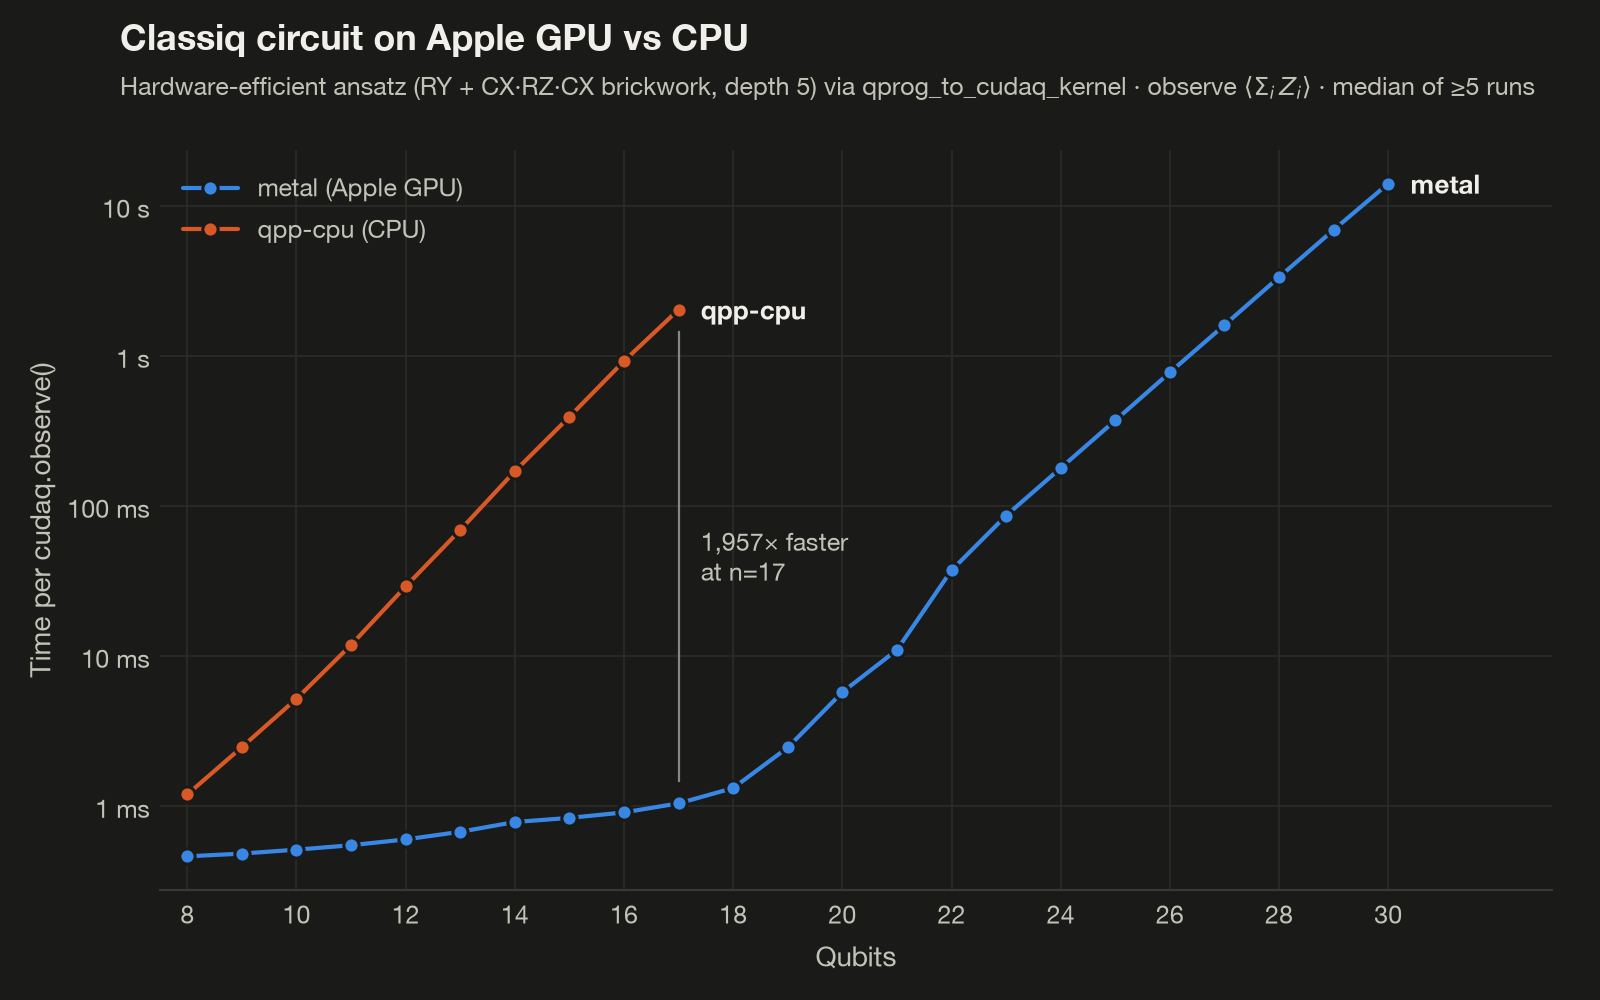
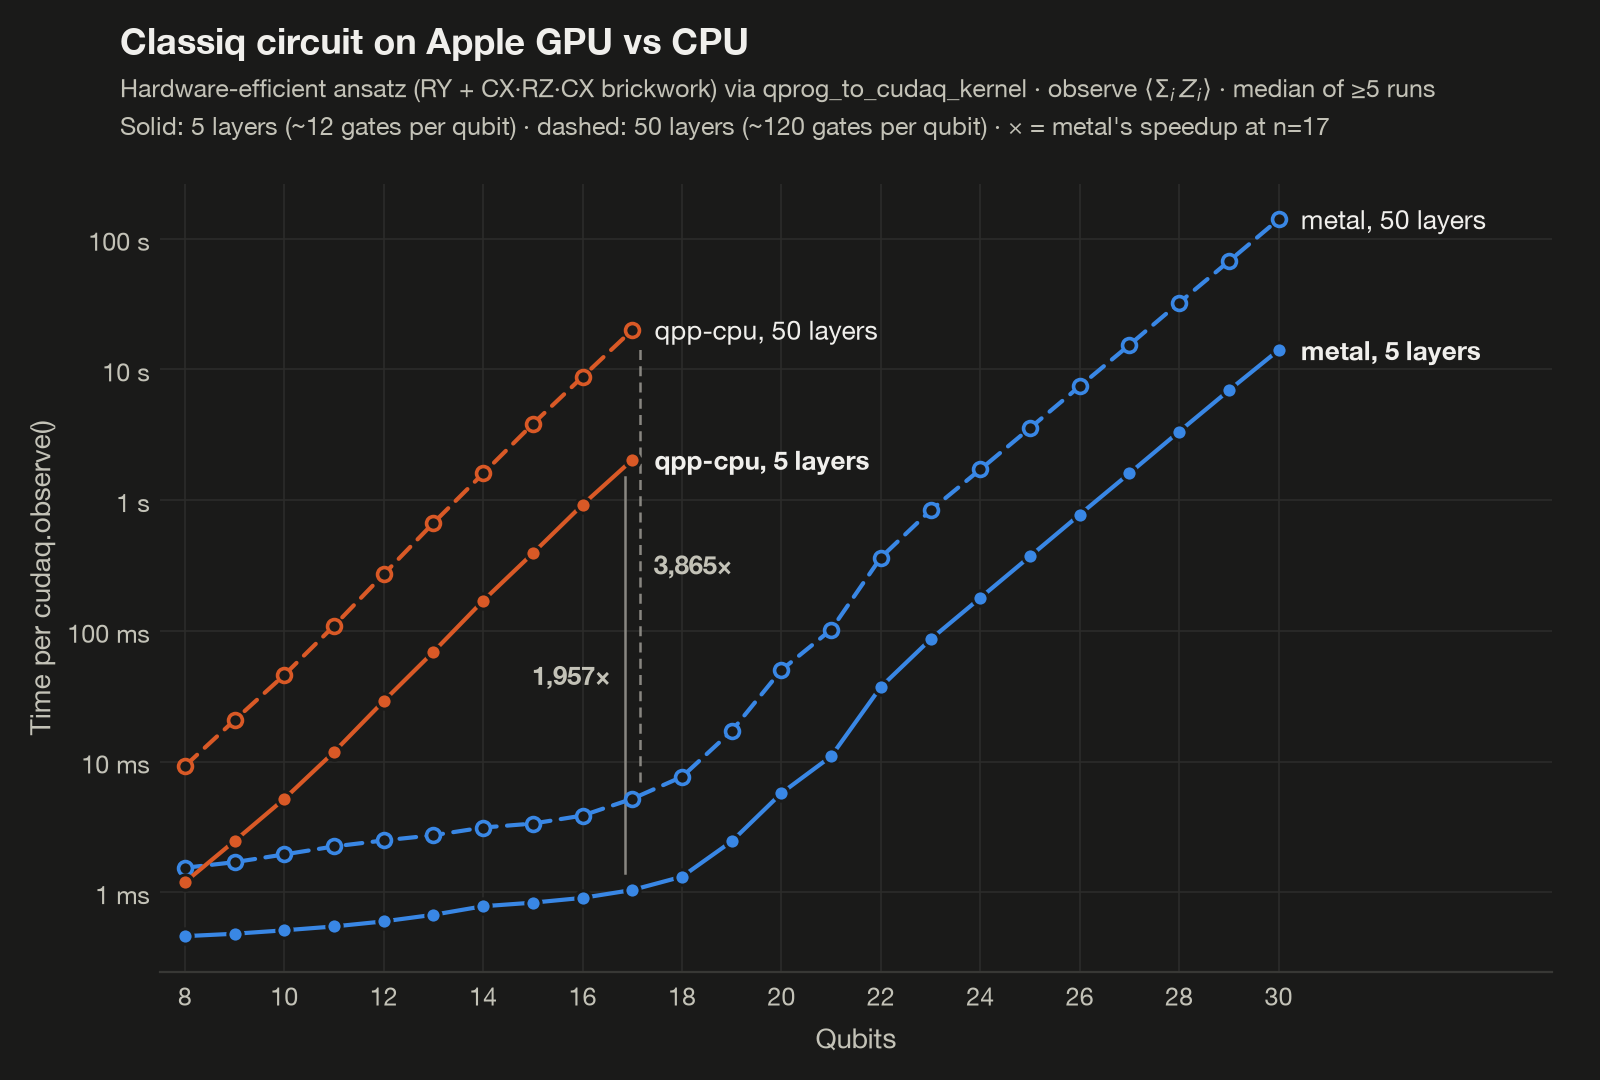
Benchmark the Classiq circuit at 5 and 50 layers
The README benchmark only ran the example's 5-layer brickwork (~12 gates
per qubit), which is small. The scaling bench now also runs it at 50
layers (~120 gates per qubit):

- examples_scaling_bench.py: depth is a CSV column, and target names and
  --depth re-measure only those runs and keep the other rows. Classiq
  synthesis now retries cloud timeouts, and a failure prints its
  exception type.
- plot_examples.py: 5 layers solid, 50 layers dashed, with labels at the
  line ends instead of a legend, and a speedup bracket per depth at n=17.
- README: new graph and numbers. At n=17 metal is ~1,960x faster at 5
  layers and ~3,870x at 50. At 20+ qubits, 50 layers take ~10x as long on
  both engines. Adds a note on Hamiltonian size and a 50-layer column in
  the qubit-ceiling table.

diff --git a/benchmarks/plot_examples.py b/benchmarks/plot_examples.py
@@ -1,4 +1,8 @@
-"""Plot results/examples.csv -> results/examples.png and examples-dark.png."""
+"""Plot results/examples.csv -> results/examples.png and examples-dark.png.
+
+One colour per target; the shallowest depth is drawn solid with filled
+markers, deeper circuits dashed with hollow markers.
+"""
 import csv
 import os
 
@@ -17,46 +21,67 @@ THEMES = {
     "examples-dark.png": dict(surface="#1a1a19", ink="#f0efec", ink2="#c3c2b7", muted="#898781",
                               grid="#2c2c2a", axis="#383835", metal="#3987e5", qpp="#d95926"),
 }
-# target -> (legend label, color key)
+# target -> (label, color key)
 SERIES = {"metal": ("metal (Apple GPU)", "metal"), "qpp-cpu": ("qpp-cpu (CPU)", "qpp")}
-TICKS = [1e-3, 1e-2, 1e-1, 1, 10]
-TICK_LABELS = ["1 ms", "10 ms", "100 ms", "1 s", "10 s"]
+DASHED = (0, (4, 2.5))
+TICKS = [1e-3, 1e-2, 1e-1, 1, 10, 100]
+TICK_LABELS = ["1 ms", "10 ms", "100 ms", "1 s", "10 s", "100 s"]
 
 
 def load():
-    data, depths = {k: {} for k in SERIES}, set()
+    """(target, depth) -> {n: median seconds}."""
+    data = {}
     with open(CSV) as f:
         for row in csv.DictReader(f):
-            data[row["target"]][int(row["n"])] = float(row["median"])
-            depths.add(row["depth"])
-    return data, "/".join(sorted(depths))
+            key = (row["target"], int(row["depth"]))
+            data.setdefault(key, {})[int(row["n"])] = float(row["median"])
+    return data
 
 
-def plot(data, depth, out, t):
+def plot(data, out, t):
     # Per-glyph fallback: DejaVu Sans supplies glyphs Helvetica lacks.
     plt.rcParams["font.family"] = ["Helvetica Neue", "DejaVu Sans"]
-    fig, ax = plt.subplots(figsize=(8, 5), dpi=200)
+    fig, ax = plt.subplots(figsize=(8, 5.4), dpi=200)
     fig.patch.set_facecolor(t["surface"])
     ax.set_facecolor(t["surface"])
 
+    depths = sorted({d for _, d in data})
     for target, (label, color) in SERIES.items():
-        pts = sorted(data[target].items())
-        ax.plot([n for n, _ in pts], [s for _, s in pts], label=label, color=t[color],
-                linewidth=1.5, solid_capstyle="round", marker="o", markersize=5.5,
-                markeredgewidth=1.1, markeredgecolor=t["surface"], zorder=3)
-        n, s = pts[-1]  # direct label at the line's end
-        ax.annotate(label.split(" (")[0], (n, s), xytext=(8, 0), textcoords="offset points",
-                    va="center", fontsize=9.5, color=t["ink"], fontweight="bold")
+        for depth in depths:
+            pts = sorted(data.get((target, depth), {}).items())
+            if not pts:
+                continue
+            solid = depth == depths[0]
+            ax.plot([n for n, _ in pts], [s for _, s in pts], color=t[color],
+                    linewidth=1.5, linestyle="-" if solid else DASHED,
+                    solid_capstyle="round", dash_capstyle="round",
+                    marker="o", markersize=5.5 if solid else 5,
+                    markerfacecolor=t[color] if solid else t["surface"],
+                    markeredgewidth=1.1 if solid else 1.3,
+                    markeredgecolor=t["surface"] if solid else t[color], zorder=3)
+            n, s = pts[-1]  # direct label at the line's end
+            ax.annotate(f"{label.split(' (')[0]}, {depth} layers", (n, s), xytext=(8, 0),
+                        textcoords="offset points", va="center", fontsize=9.5,
+                        color=t["ink"], fontweight="bold" if solid else "normal")
 
-    # The headline: metal's speedup at the largest size both engines ran.
-    common = set(data["metal"]) & set(data["qpp-cpu"])
-    if common:
+    # The headline: metal's speedup at the largest size both engines ran, one
+    # bracket per depth in that depth's line style. The shallow bracket sits
+    # just left of n with its label on the left, the deep one just right.
+    speedup_ns = set()
+    for i, depth in enumerate(depths[:2]):
+        gpu_pts, cpu_pts = data.get(("metal", depth), {}), data.get(("qpp-cpu", depth), {})
+        common = set(gpu_pts) & set(cpu_pts)
+        if not common:
+            continue
         n = max(common)
-        cpu, gpu = data["qpp-cpu"][n], data["metal"][n]
-        ax.plot([n, n], [gpu * 1.4, cpu / 1.4], color=t["muted"], linewidth=0.8, zorder=2)
-        ax.annotate(f"{cpu / gpu:,.0f}× faster\nat n={n}", (n, (cpu * gpu) ** 0.5),
-                    xytext=(8, 0), textcoords="offset points", ha="left", va="center",
-                    fontsize=9, color=t["ink2"])
+        speedup_ns.add(n)
+        cpu, gpu = cpu_pts[n], gpu_pts[n]
+        x, side = (n - 0.15, -1) if i == 0 else (n + 0.15, 1)
+        ax.plot([x, x], [gpu * 1.35, cpu / 1.35], color=t["muted"], linewidth=0.9,
+                linestyle="-" if i == 0 else DASHED, zorder=2)
+        ax.annotate(f"{cpu / gpu:,.0f}×", (x, (cpu * gpu) ** 0.5), xytext=(5 * side, 0),
+                    textcoords="offset points", ha="left" if side > 0 else "right",
+                    va="center", fontsize=9.5, color=t["ink2"], fontweight="bold")
 
     ax.set_yscale("log")
     ax.yaxis.set_major_locator(FixedLocator(TICKS))
@@ -64,7 +89,7 @@ def plot(data, depth, out, t):
     ax.yaxis.set_minor_locator(NullLocator())
     ns = sorted({n for d in data.values() for n in d})
     ax.set_xticks(range(min(ns), max(ns) + 1, 2))
-    ax.set_xlim(min(ns) - 0.5, max(ns) + 3)
+    ax.set_xlim(min(ns) - 0.5, max(ns) + 5.5)
     ax.set_xlabel("Qubits", color=t["ink2"], fontsize=10)
     ax.set_ylabel("Time per cudaq.observe()", color=t["ink2"], fontsize=10)
     ax.tick_params(colors=t["muted"], labelcolor=t["ink2"], labelsize=9, length=0)
@@ -74,22 +99,29 @@ def plot(data, depth, out, t):
         ax.spines[side].set_visible(False)
     ax.spines["bottom"].set_color(t["axis"])
 
+    # Each layer is one RY per qubit plus ~1.5 brickwork gates per qubit.
+    def layers(d):
+        return f"{d} layers (~{2.4 * d:.0f} gates per qubit)"
+
+    key = f"Solid: {layers(depths[0])}"
+    if len(depths) > 1:
+        key += " · dashed: " + ", ".join(layers(d) for d in depths[1:])
+    if len(speedup_ns) == 1:
+        key += f" · × = metal's speedup at n={speedup_ns.pop()}"
     fig.text(0.075, 0.95, "Classiq circuit on Apple GPU vs CPU",
              fontsize=13, fontweight="bold", color=t["ink"])
-    fig.text(0.075, 0.905, f"Hardware-efficient ansatz (RY + CX·RZ·CX brickwork, depth {depth}) "
-             r"via qprog_to_cudaq_kernel · observe $\langle \Sigma_i\, Z_i \rangle$ · median of ≥5 runs",
+    fig.text(0.075, 0.91, "Hardware-efficient ansatz (RY + CX·RZ·CX brickwork) via "
+             r"qprog_to_cudaq_kernel · observe $\langle \Sigma_i\, Z_i \rangle$ · median of ≥5 runs",
              fontsize=9, color=t["ink2"])
-    leg = ax.legend(loc="upper left", frameon=False, fontsize=9, handlelength=2.2)
-    for txt in leg.get_texts():
-        txt.set_color(t["ink2"])
+    fig.text(0.075, 0.875, key, fontsize=9, color=t["ink2"])
 
-    fig.subplots_adjust(left=0.1, right=0.97, top=0.85, bottom=0.11)
+    fig.subplots_adjust(left=0.1, right=0.97, top=0.83, bottom=0.1)
     fig.savefig(os.path.join(HERE, "results", out), facecolor=t["surface"])
     plt.close(fig)
     print(f"wrote results/{out}")
 
 
 if __name__ == "__main__":
-    data, depth = load()
+    data = load()
     for out, theme in THEMES.items():
-        plot(data, depth, out, theme)
+        plot(data, out, theme)

diff --git a/benchmarks/examples_scaling_bench.py b/benchmarks/examples_scaling_bench.py
@@ -2,18 +2,21 @@
 qpp-cpu (CPU), via qprog_to_cudaq_kernel.
 
 The circuit is examples/brickwork_classiq.py's hardware-efficient ansatz (RY
-layer + CX-RZ-CX brickwork), observed against Σ Z_i. Only `cudaq.observe(...)`
-is timed; synthesis, kernel construction and a warmup run happen first.
-qpp-cpu stops at n=17 (~2 s per observe and doubling); metal runs up to n=30
-to show the curve up to the statevector ceiling (sizes that don't fit are
-reported and skipped). Results go to results/examples.csv, replaced only once
-the whole sweep has finished; pass target names (e.g. ``metal``) to re-measure
-only those and keep the other rows. Requires ``classiq.authenticate()`` once.
+layer + CX-RZ-CX brickwork), observed against Σ Z_i, at 5 layers (~12 gates
+per qubit) and 50 layers (~120 gates per qubit). Only `cudaq.observe(...)` is
+timed; synthesis, kernel construction and a warmup run happen first.
+qpp-cpu stops at n=17 (~2 s per observe at 5 layers, ~20 s at 50, doubling
+per qubit); metal runs up to n=30 to show the curve up to the statevector
+ceiling (sizes that don't fit are reported and skipped; 50 layers at n=30 take
+~2.5 minutes per observe). Results go to results/examples.csv, replaced only
+once the whole sweep has finished. Pass target names (e.g. ``metal``) and/or
+``--depth D`` to re-measure only those and keep the other rows. Requires
+``classiq.authenticate()`` once.
 """
+import argparse
 import functools
 import operator
 import os
-import sys
 import time
 from functools import reduce
 
@@ -25,21 +28,22 @@ from classiq import (qfunc, QArray, QBit, Output, allocate,
                      RY, RZ, CX, synthesize, qprog_to_cudaq_kernel,
                      pauli_operator_to_cudaq_spin_op, Pauli)
 
-DEPTH = 5
+DEPTHS = (5, 50)
 # Report the median of at least MIN_TRIALS observes, repeating fast points
 # until they add up to MIN_SECONDS: a mean of a few millisecond-scale calls is
 # dominated by scheduling noise. MAX_TRIALS only stops sub-0.25 ms points.
 MIN_TRIALS, MIN_SECONDS, MAX_TRIALS = 5, 0.5, 2000
+SYNTH_ATTEMPTS = 3
 THETA, PHI = 0.5, 0.7
 SIZES = {"qpp-cpu": range(8, 18), "metal": range(8, 31)}
 OUT = os.path.join(os.path.dirname(os.path.abspath(__file__)), "results", "examples.csv")
 
 
-@functools.cache  # synthesize once per size, reuse for both targets
-def _kernel_and_hamiltonian(N):
+@functools.cache  # synthesize once per (size, depth), reuse for both targets
+def _kernel_and_hamiltonian(N, depth):
     @qfunc
     def bw(q: QArray[QBit, N]):
-        for layer in range(DEPTH):
+        for layer in range(depth):
             for i in range(N):
                 RY(THETA, q[i])
             for j in range(layer % 2, N - 1, 2):
@@ -52,13 +56,22 @@ def _kernel_and_hamiltonian(N):
         allocate(q)
         bw(q)
 
-    kernel = qprog_to_cudaq_kernel(synthesize(main))
+    for attempt in range(1, SYNTH_ATTEMPTS + 1):
+        try:
+            qprog = synthesize(main)
+            break
+        except Exception as e:  # cloud call: timeouts are transient
+            if attempt == SYNTH_ATTEMPTS:
+                raise
+            print(f"n={N} depth={depth}: synthesis failed ({type(e).__name__}), "
+                  f"retry {attempt}/{SYNTH_ATTEMPTS - 1}", flush=True)
+    kernel = qprog_to_cudaq_kernel(qprog)
     H = pauli_operator_to_cudaq_spin_op(reduce(operator.add, (Pauli.Z(i) for i in range(N))))
     return kernel, H
 
 
-def observe_times(N, target):
-    kernel, H = _kernel_and_hamiltonian(N)
+def observe_times(N, depth, target):
+    kernel, H = _kernel_and_hamiltonian(N, depth)
     cudaq.set_target(target)
     cudaq.observe(kernel, H).expectation()  # warmup
     ts = []
@@ -70,28 +83,38 @@ def observe_times(N, target):
 
 
 def main():
-    # `python examples_scaling_bench.py metal` re-measures only metal and keeps
-    # the other targets' rows from the existing CSV.
-    targets = sys.argv[1:] or list(SIZES)
+    # `python examples_scaling_bench.py metal --depth 50` re-measures only that
+    # (target, depth) pair and keeps every other row from the existing CSV.
+    ap = argparse.ArgumentParser(description=__doc__.split("\n\n")[0])
+    ap.add_argument("targets", nargs="*", help=f"default: all of {list(SIZES)}")
+    ap.add_argument("--depth", type=int, action="append",
+                    help=f"layers to run (repeatable); default: {list(DEPTHS)}")
+    args = ap.parse_args()
+    targets, depths = args.targets or list(SIZES), args.depth or list(DEPTHS)
     unknown = set(targets) - set(SIZES)
     if unknown:
-        sys.exit(f"unknown target(s) {sorted(unknown)}; choose from {list(SIZES)}")
+        ap.error(f"unknown target(s) {sorted(unknown)}; choose from {list(SIZES)}")
+    redo = {(t, str(d)) for t in targets for d in depths}
     rows = ["n,depth,target,median,std"]
     if os.path.exists(OUT):
         with open(OUT) as f:
-            rows += [r for r in f.read().splitlines()[1:]
-                     if r and r.split(",")[2] not in targets]
+            for r in f.read().splitlines()[1:]:
+                if r and (r.split(",")[2], r.split(",")[1]) not in redo:
+                    rows.append(r)
     for target in targets:
-        for n in SIZES[target]:
-            try:
-                ts = observe_times(n, target)
-            except Exception as e:
-                print(f"n={n} {target}: FAILED ({e})", flush=True)
-                continue
-            m, s = float(np.median(ts)), float(np.std(ts))
-            # Microsecond resolution: metal's small sizes take ~0.5-1 ms.
-            rows.append(f"{n},{DEPTH},{target},{m:.6f},{s:.6f}")
-            print(f"n={n:2d} {target:8s}: {m:8.4f}s ± {s:.4f}", flush=True)
+        for depth in depths:
+            for n in SIZES[target]:
+                try:
+                    ts = observe_times(n, depth, target)
+                except Exception as e:
+                    print(f"n={n} depth={depth} {target}: FAILED "
+                          f"({type(e).__name__}: {e})", flush=True)
+                    continue
+                m, s = float(np.median(ts)), float(np.std(ts))
+                # Microsecond resolution: metal's small sizes take ~0.5-1 ms.
+                rows.append(f"{n},{depth},{target},{m:.6f},{s:.6f}")
+                print(f"n={n:2d} depth={depth:2d} {target:8s}: {m:8.4f}s ± {s:.4f}",
+                      flush=True)
     tmp = OUT + ".part"
     with open(tmp, "w") as f:
         f.write("\n".join(rows) + "\n")

diff --git a/README.md b/README.md
@@ -149,31 +149,46 @@ The benchmark runs the `brickwork_classiq.py` circuit — synthesized by
 Classiq and converted with `qprog_to_cudaq_kernel` — on CUDA-Q's CPU
 simulator (`qpp-cpu`) and on `metal`, timing one
 `cudaq.observe(kernel, Σ Zᵢ)` per point; synthesis and kernel construction
-happen before the clock starts. Apple M5 Pro (24 GB), CUDA-Q 0.16.0, median
-of at least 5 runs (fast points repeat until they add up to 0.5 s):
+happen before the clock starts. Five layers (the example's default, ~12 gates
+per qubit) is a small circuit, so the benchmark also runs it at 50 layers
+(~120 gates per qubit). Apple M5 Pro (24 GB), CUDA-Q 0.16.0, median of at
+least 5 runs (fast points repeat until they add up to 0.5 s):
 
 <picture>
   <source media="(prefers-color-scheme: dark)" srcset="benchmarks/results/examples-dark.png">
-  <img alt="Time per cudaq.observe() vs qubit count for a Classiq circuit: qpp-cpu doubles per qubit to about 2 s at 17 qubits; metal stays near 0.5–1.0 ms up to 17 qubits, about 1,960 times faster there, and reaches 30 qubits in about 14 s." src="benchmarks/results/examples.png">
+  <img alt="Time per cudaq.observe() vs qubit count for a Classiq circuit at 5 layers (solid lines) and 50 layers (dashed). qpp-cpu doubles per qubit, reaching about 2 s at 17 qubits with 5 layers and 20 s with 50. metal stays between 0.5 and 5 ms up to 17 qubits, about 1,960 times faster there at 5 layers and 3,870 times at 50, and reaches 30 qubits in about 14 s and 141 s." src="benchmarks/results/examples.png">
 </picture>
 
 - **qpp-cpu** doubles per qubit, as a CPU statevector does: ~2 s per observe
-  at n=17.
-- **metal** stays at ~0.5–1.0 ms up to n=17, where the fixed per-call cost
-  dominates, and ~6 ms at n=20. From there it doubles per qubit as memory
-  bandwidth takes over: ~0.37 s at n=25 (256 MB statevector).
-- **At n=17, metal is ~1,960× faster** (2.03 s → 1.04 ms). Metal's
-  millisecond-scale times are sensitive to run-to-run noise; earlier runs of
-  this benchmark measured 550–1,900×.
-- Metal reaches **n=30** (an 8 GiB statevector) in ~14 s per observe;
-  extrapolating qpp-cpu's doubling puts it at several hours.
-- At 8 qubits there is little to win: ~1.2 ms vs ~0.5 ms.
+  at n=17 with 5 layers, ~20 s with 50. Ten times the gates cost ten times
+  the time.
+- **metal** stays in the milliseconds up to n=17: 0.5–1.0 ms at 5 layers,
+  where the fixed per-call cost dominates, and 1.5–5 ms at 50. From n≈20 it
+  doubles per qubit as memory bandwidth takes over, and 50 layers cost ~10×
+  as much as 5: 0.37 s vs 3.6 s at n=25 (256 MB statevector).
+- **At n=17, metal is ~1,960× faster at 5 layers** (2.03 s → 1.04 ms) **and
+  ~3,870× at 50** (20.0 s → 5.2 ms): a deeper circuit spreads metal's fixed
+  cost over more gates. Metal's millisecond-scale times are sensitive to
+  run-to-run noise; earlier runs of the 5-layer benchmark measured
+  550–1,900×.
+- Metal reaches **n=30** (an 8 GiB statevector) in ~14 s per observe at 5
+  layers and ~141 s at 50; extrapolating qpp-cpu's doubling puts it at ~5
+  hours and ~2 days.
+- At 8 qubits there is little to win at 5 layers (~1.2 ms vs ~0.5 ms); at 50
+  layers it is 9.2 ms vs 1.5 ms.
 
 The frontend doesn't change these numbers: the same gates written as a
 native `@cudaq.kernel` (`brickwork_native.py`) simulate at the same speed.
+A bigger Hamiltonian widens the gap further. With those native gates at 16
+qubits and 5 layers, replacing Σ Zᵢ with 1,000 random Pauli terms of weight
+≤ 4 took qpp-cpu from 0.9 s to 19 s and metal from 0.9 ms to 3.5 ms
+(~5,400×): metal evaluates the terms in batched GPU passes, qpp-cpu one at a
+time.
 
 Reproduce with (needs `classiq.authenticate()` once, plus matplotlib for the
-plot):
+plot). The full sweep takes about an hour, mostly the 50-layer points at
+26–30 qubits; target names and `--depth` limit it to those runs and keep the
+other rows (e.g. `examples_scaling_bench.py metal --depth 5`):
 
 ```bash
 python benchmarks/examples_scaling_bench.py
@@ -241,7 +256,7 @@ Empirically on an **Apple M5 Pro (24 GB unified)**:
 
 - `maxBufferLength` = **14.30 GB** (13.32 GiB)
 - `recommendedMaxWorkingSetSize` = 19.07 GB (advisory)
-- **n=30 → 8.6 GB buffer → OK** (~14 s per observe, verified on-machine)
+- **n=30 → 8.6 GB buffer → OK** (~14 s per observe at 5 layers, verified on-machine)
 - **n=31 → 17.2 GB buffer → fails** with
   `a 31-qubit statevector needs 16.00 GiB, but this GPU's maxBufferLength is 13.32 GiB`
 
@@ -250,15 +265,15 @@ So **n=30 is the ceiling on a 24 GB M5 Pro**; n=31 needs a Mac whose
 Going past 31 qubits needs a redesigned engine (64-bit indexing and a
 statevector split across multiple buffers).
 
-The timing curve stays log-linear right up to the wall (the metal line of
+The timing curve stays log-linear right up to the wall (the metal lines of
 the benchmark above):
 
-| n | statevector | observe |
-|---|---|---|
-| 25 | 256 MB | 0.37 s |
-| 27 | 1 GB | 1.6 s |
-| 29 | 4 GB | 6.9 s |
-| 30 | 8 GB | 14.1 s |
+| n | statevector | observe, 5 layers | observe, 50 layers |
+|---|---|---|---|
+| 25 | 256 MB | 0.37 s | 3.6 s |
+| 27 | 1 GB | 1.6 s | 15.4 s |
+| 29 | 4 GB | 6.9 s | 67 s |
+| 30 | 8 GB | 14.1 s | 141 s |
 
 ## Limitations, honestly
 
